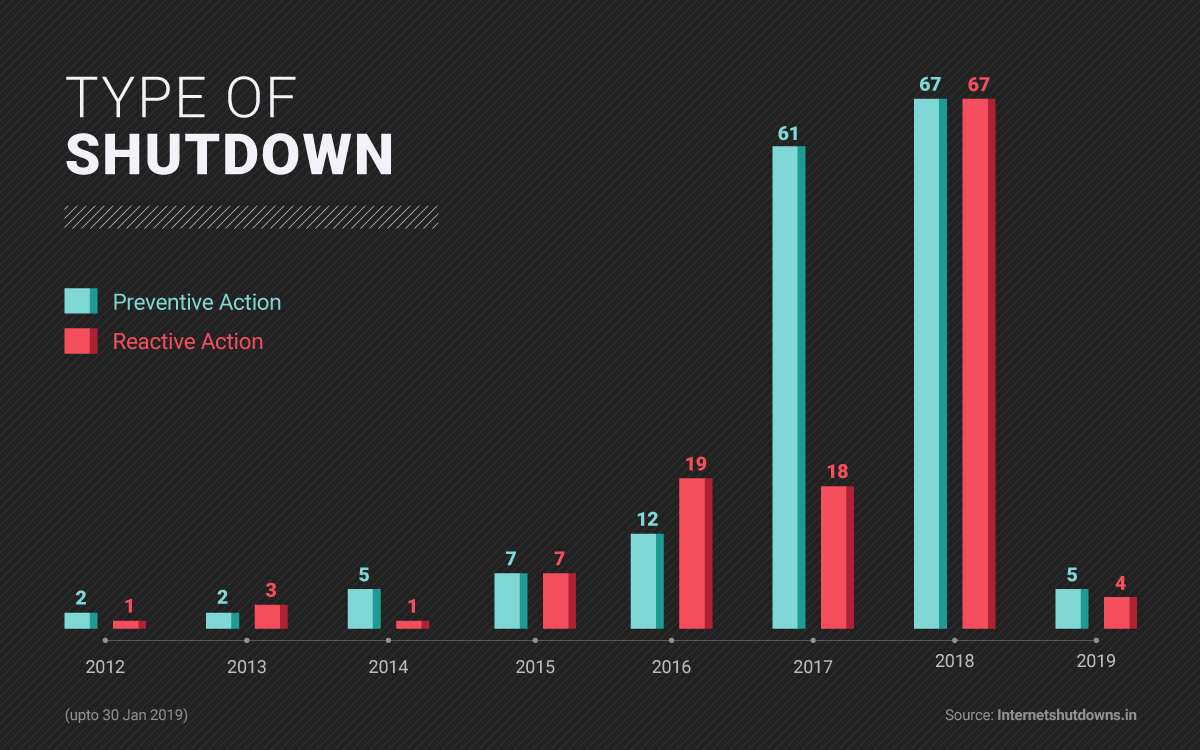
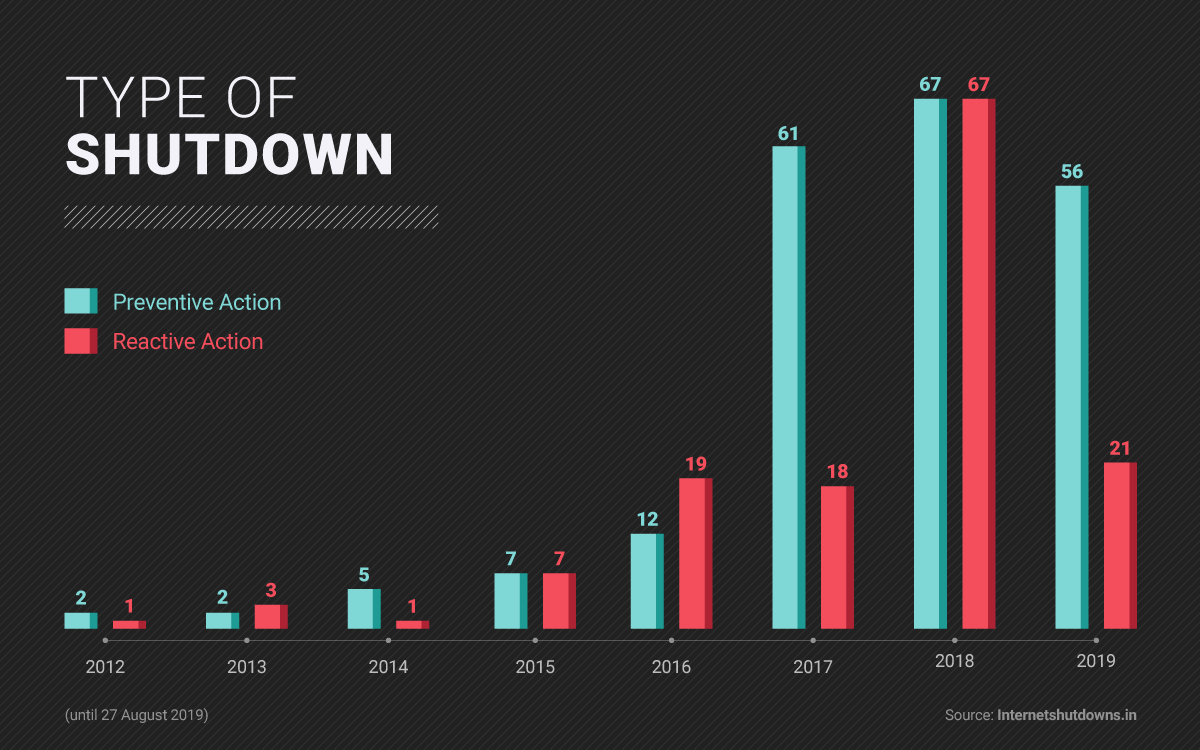
Updating trends image

Changed region(s): [[0.8633, 0.2147, 0.9558, 0.7973], [0.0617, 0.92, 0.1542, 0.9813]]

diff --git a/public/index.html b/public/index.html
@@ -423,7 +423,7 @@
   -->
   <section id="trends">
     <div class="container">
-      <div class="text-center"><h2>Trends</h2> upto 30 January 2019</div>
+      <div class="text-center"><h2>Trends</h2> upto 28 August 2019</div>
 
       <!-- <div class="bar-chart"></div>
       <script src="https://d3js.org/d3.v3.min.js"  charset="utf-8"></script>

diff --git a/README.md b/README.md
@@ -11,6 +11,7 @@ TODO:
 * Update Longest shutdown section with the latest content
 * States update in the json
 * Update all the depreciated packages to the latest ones (bower -> yarn, jade -> pug)
+* Adding tests for the deployment (make sure you check the tests before deploying)
 
 
 ## To setup the project locally:
